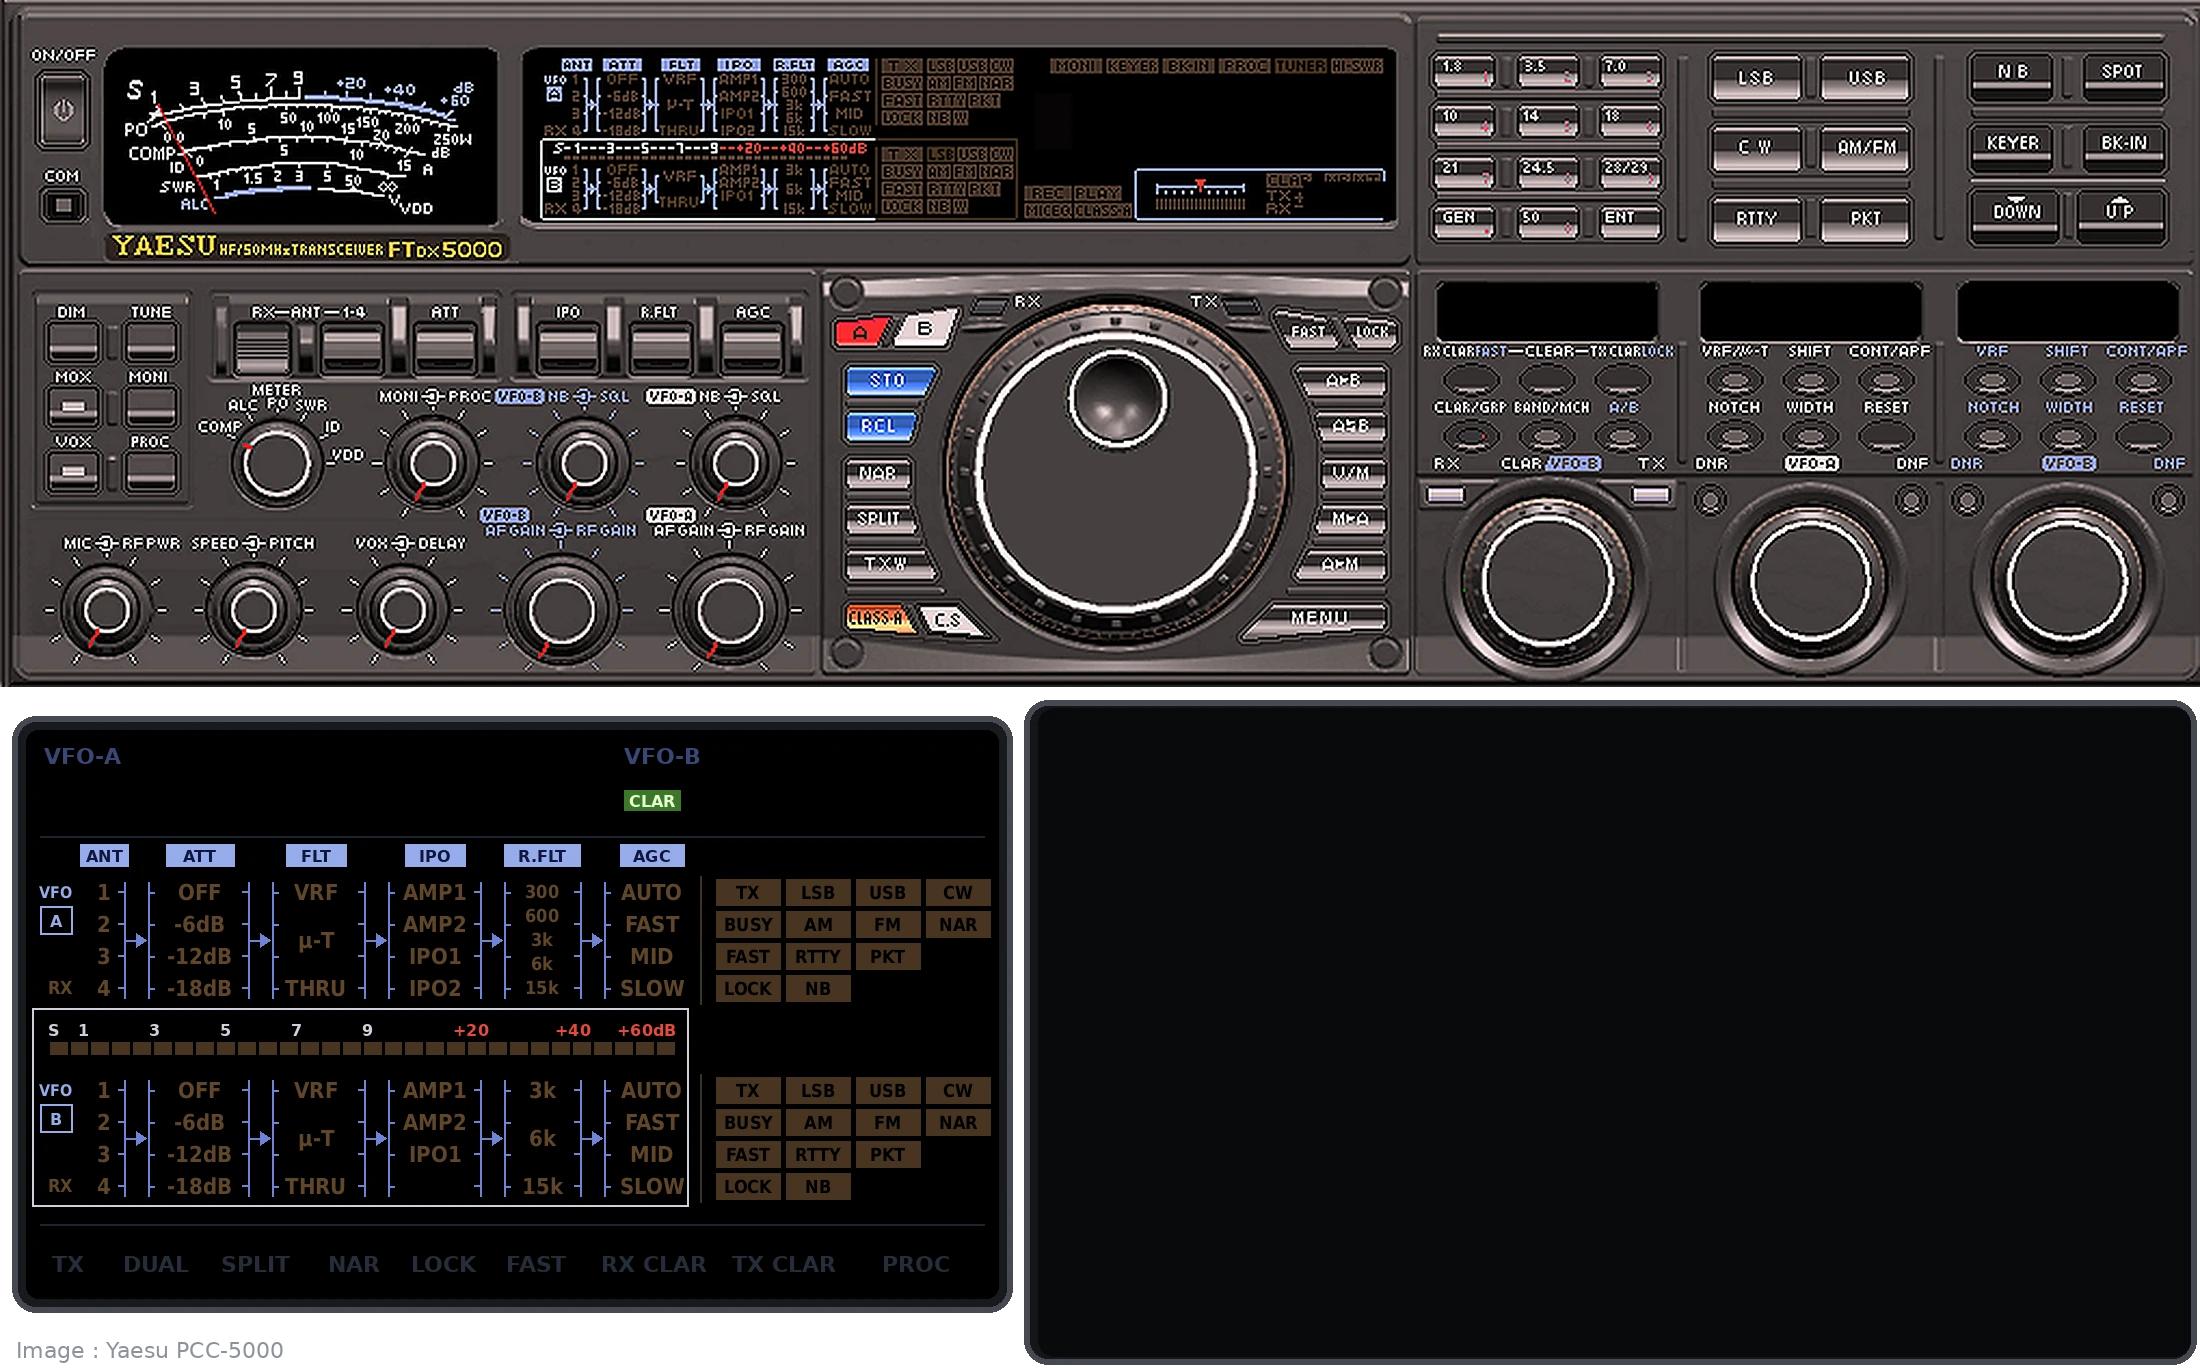
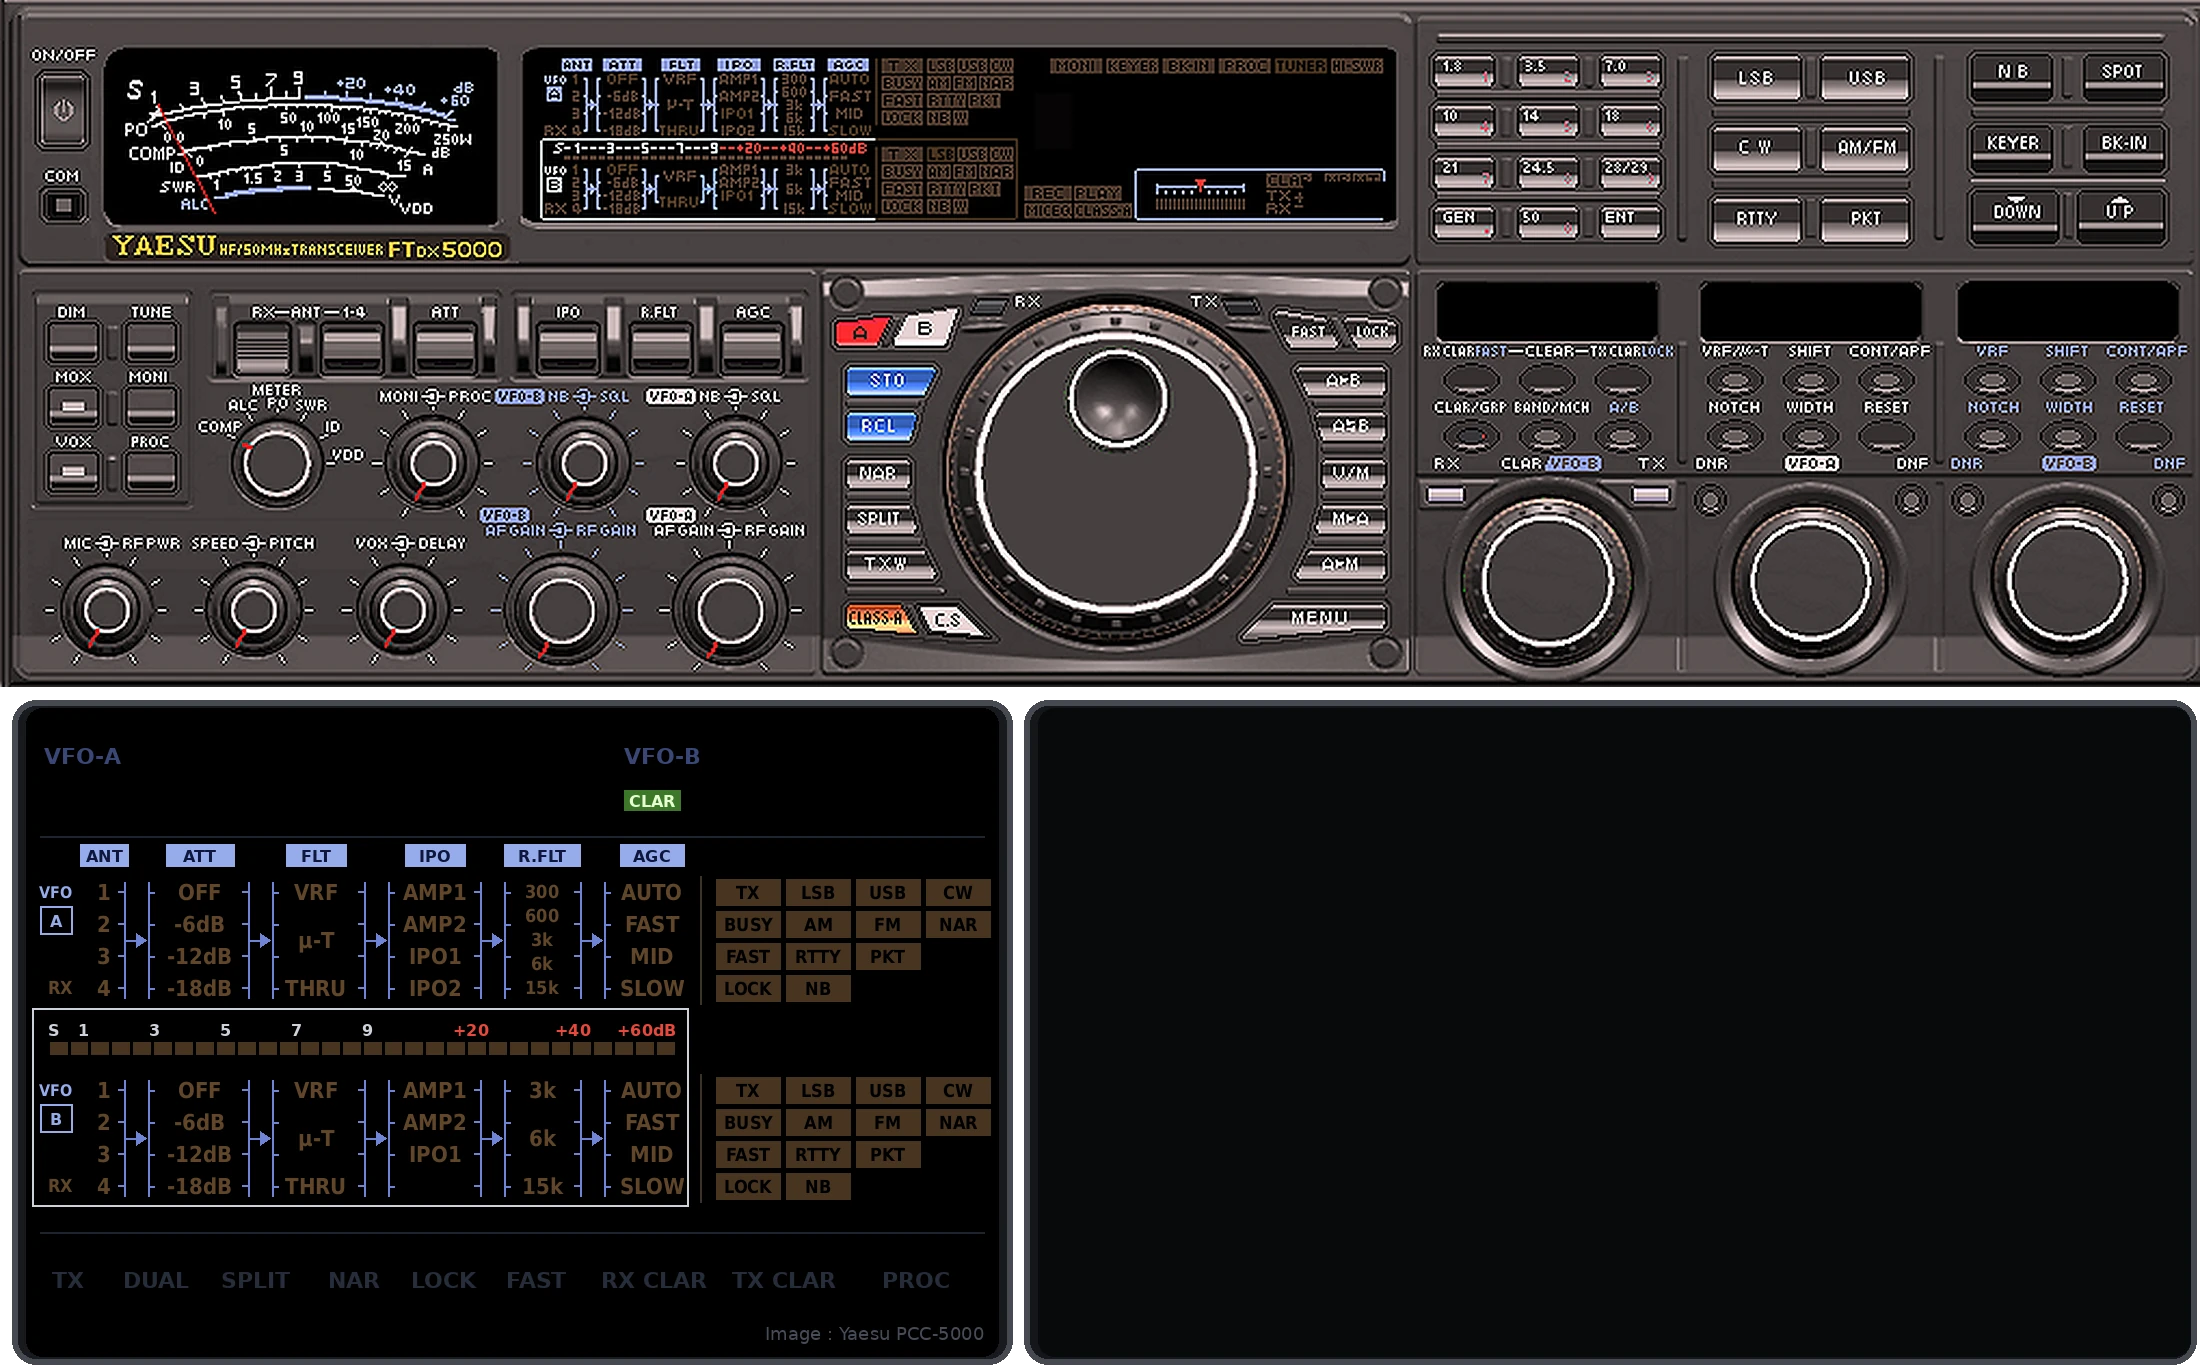
0.37.237 : Réplique de l'afficheur FTDX5000
Claude-Session: https://claude.ai/code/session_012Nhne2whzwcBifbkas5HRy

Changed region(s): [[0.0, 0.8904, 0.4636, 1.0], [0.0, 0.4912, 0.4636, 0.5526]]

diff --git a/public/faces/ftdx5000.js b/public/faces/ftdx5000.js
@@ -132,7 +132,7 @@
   vg('VA', GB, (s) => s.vfoSel !== 1); vg('VB', GB, (s) => s.vfoSel === 1);
   // Barre du S-mètre (VFO-B) : 30 cases, blanches jusqu'à S9, rouges au-delà
   for (let i = 0; i < 30; i++) vg('S.bar.' + i, (i + 1) / 30 > 130 / 255 + 0.001 ? GR : GB, (s) => subOn(s) && s.smeterB != null && s.smeterB >= (i + 1) / 30 * 255);
-  const ind = (lab, x, on, color) => ({ x, y: 636, anchor: 'middle', color: color || '#ffb347', font: FONT(11), text: (s, L) => (on(s, L) ? lab : '') });
+  const ind = (lab, x, on, color) => ({ x, y: 644, anchor: 'middle', color: color || '#ffb347', font: FONT(11), text: (s, L) => (on(s, L) ? lab : '') });
   const VFD = [
     // Bande du haut : VFO-A en grands 7 segments, VFO-B, clarifier (RX / TX et décalage)
     { seg: true, x: 292, y: 372, size: 34, color: '#9fb2ff', text: (s) => (s.freq ? fmtF(s.freq) : '') },

diff --git a/CHANGELOG.md b/CHANGELOG.md
@@ -2,6 +2,7 @@
 
 ## v0.15 — FT2
 
+- **0.37.237** — FTDX5000 : réplique de l'afficheur refaite comme celui du TRX (VFO-A en haut, S-mètre du SUB au milieu, VFO-B en bas ; toutes les valeurs ANT/ATT/FLT/IPO/R.FLT/AGC listées, celle du TRX allumée ; grille d'état TX/modes/BUSY/NAR/FAST/LOCK/NB ; fréquences VFO-A et VFO-B, clarifier, VFO actif), même hauteur que l'écran à droite. RX ANT lu (AN0). Faces avant : plus de bouton « Phonie : page TRX SSB » (bouton SSB de la ligne MODES).
 - **0.37.236** — FTDX5000 : réplique de l'afficheur refaite comme celui du TRX (VFO-A en haut, S-mètre du SUB au milieu, VFO-B en bas ; toutes les valeurs ANT/ATT/FLT/IPO/R.FLT/AGC listées, celle du TRX allumée ; grille d'état TX/modes/BUSY/NAR/FAST/LOCK/NB ; fréquences VFO-A et VFO-B, clarifier, VFO actif). RX ANT lu (AN0). Faces avant : plus de bouton « Phonie : page TRX SSB » (bouton SSB de la ligne MODES).
 - **0.37.235** — Page /ftdx5000 : image de la face avant Yaesu PCC-5000 (nette, de face) avec afficheur vivant (valeurs MAIN / SUB, cases, TUNER, fréquences, filtres) ; réplique agrandie de l'afficheur du TRX à gauche de l'écran ; MENU = réglages du FTDX5000
 - **0.37.234** — Page /ftdx5000 : réplique de l'afficheur principal du FTDX5000 (MAIN / SUB, fréquences, modes, voyants) à gauche de l'écran de la page

diff --git a/LISEZMOI.md b/LISEZMOI.md
@@ -1,4 +1,4 @@
-# Remote Station — v0.37.236 (CAT + écoute de la BF)
+# Remote Station — v0.37.237 (CAT + écoute de la BF)
 
 > **Administrateurs : le guide à jour est [GUIDE-ADMINISTRATEUR.md](GUIDE-ADMINISTRATEUR.md).** Ce fichier garde les notes techniques détaillées ; certaines étapes y décrivent d'anciennes versions (jeton à coller, audio 8 kHz…).
 
@@ -90,7 +90,7 @@ L'émission est **désactivée par défaut** (`"allowTx": false`). On l'active s
 
 ## 1. Installation sur le VPS VEX
 
-Copie `remote-station-0.37.236.tar.gz` dans `/home/on6dp` avec WinSCP, puis dans PuTTY :
+Copie `remote-station-0.37.237.tar.gz` dans `/home/on6dp` avec WinSCP, puis dans PuTTY :
 
 ```bash
 # Node.js (Debian 13 fournit la version 20, ça suffit)
@@ -98,7 +98,7 @@ sudo apt update && sudo apt install -y nodejs
 node -v
 
 # Fichiers + utilisateur système dédié
-sudo tar -xzf /home/on6dp/remote-station-0.37.236.tar.gz -C /opt
+sudo tar -xzf /home/on6dp/remote-station-0.37.237.tar.gz -C /opt
 sudo useradd --system --home /opt/remote-station --shell /usr/sbin/nologin remotestation
 sudo chown -R remotestation:remotestation /opt/remote-station
 cd /opt/remote-station

diff --git a/releases/README.md b/releases/README.md
@@ -2,6 +2,7 @@
 
 | Version | Windows 10 / 11 | Serveur Linux (VPS) | Notes |
 |---|---|---|---|
+| 0.37.237 | [RemoteStation-Setup-0.37.237.exe](0.37.237/RemoteStation-Setup-0.37.237.exe) | [remote-station-0.37.237.tar.gz](0.37.237/remote-station-0.37.237.tar.gz) | Ctrl+F5 sur /ftdx5000 et les autres faces avant. — [empreintes SHA-256](0.37.237/SHA256SUMS.txt) |
 | 0.37.236 | [RemoteStation-Setup-0.37.236.exe](0.37.236/RemoteStation-Setup-0.37.236.exe) | [remote-station-0.37.236.tar.gz](0.37.236/remote-station-0.37.236.tar.gz) | Ctrl+F5 sur /ftdx5000 et les autres faces avant. — [empreintes SHA-256](0.37.236/SHA256SUMS.txt) |
 | 0.37.235 | [RemoteStation-Setup-0.37.235.exe](0.37.235/RemoteStation-Setup-0.37.235.exe) | [remote-station-0.37.235.tar.gz](0.37.235/remote-station-0.37.235.tar.gz) | Ctrl+F5 sur la page /ftdx5000 — [empreintes SHA-256](0.37.235/SHA256SUMS.txt) |
 | 0.37.234 | [RemoteStation-Setup-0.37.234.exe](0.37.234/RemoteStation-Setup-0.37.234.exe) | [remote-station-0.37.234.tar.gz](0.37.234/remote-station-0.37.234.tar.gz) | Ctrl+F5 sur la page /ftdx5000 — [empreintes SHA-256](0.37.234/SHA256SUMS.txt) |

diff --git a/README.md b/README.md
@@ -11,7 +11,7 @@ Pilotage à distance des transceivers du club depuis un navigateur.
  TRX ──USB──► PC du club (Chrome, page /station) ──internet──► VPS remote.op0p.be ◄── membres (navigateur)
 ```
 
-**Version actuelle : 0.37.236** — historique dans [CHANGELOG.md](CHANGELOG.md).
+**Version actuelle : 0.37.237** — historique dans [CHANGELOG.md](CHANGELOG.md).
 
 **Télécharger une version prête à installer** : dossier [releases/](releases/README.md) du dépôt. Chaque version y a son archive serveur
 `remote-station-X.Y.Z.tar.gz`, son installateur Windows `RemoteStation-Setup-X.Y.Z.exe` et le fichier `SHA256SUMS.txt` des empreintes.
